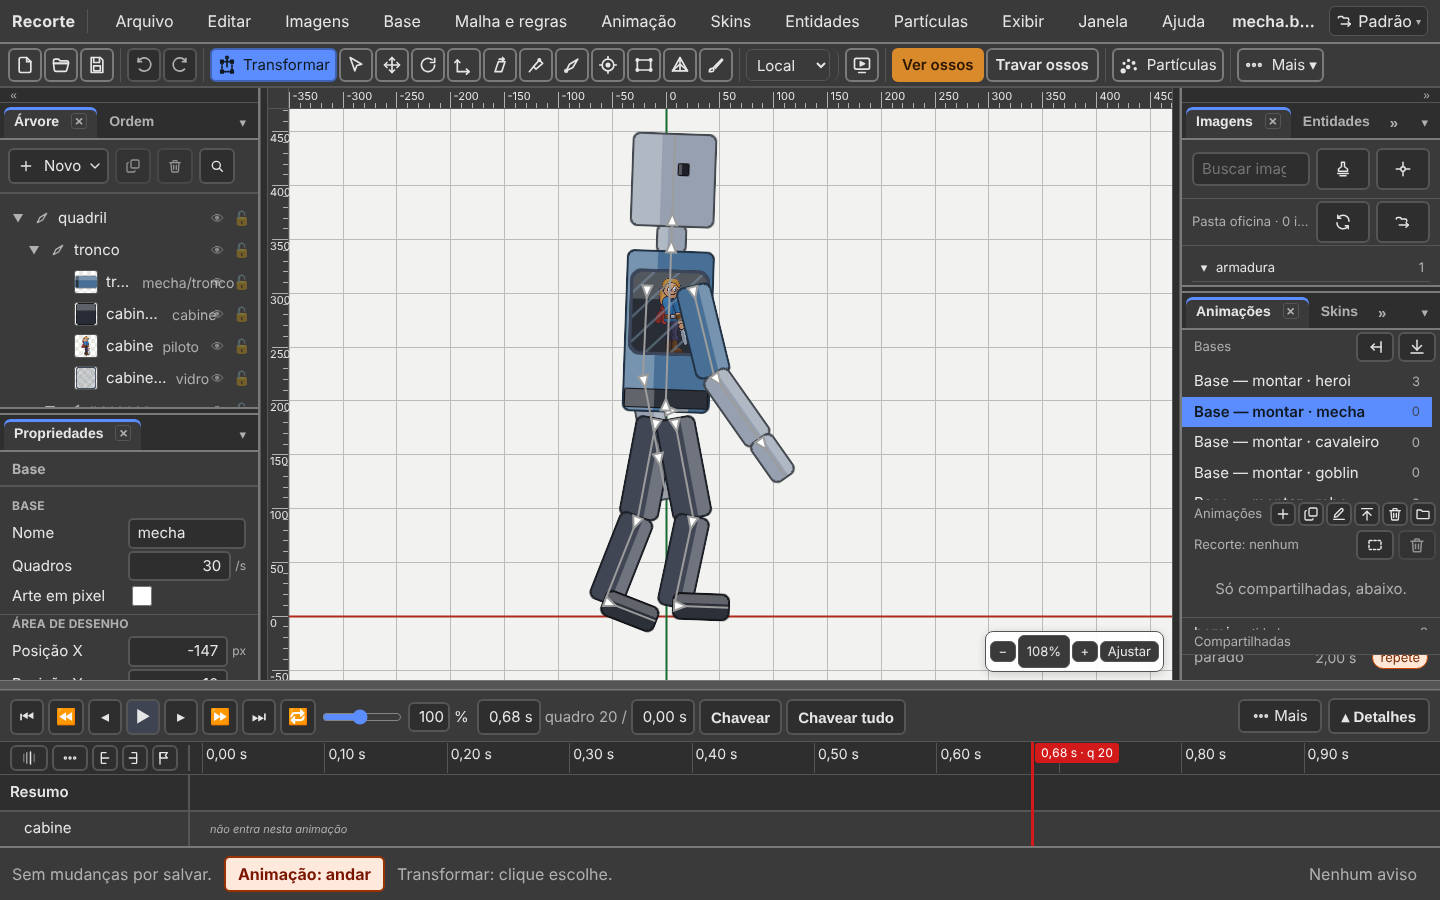
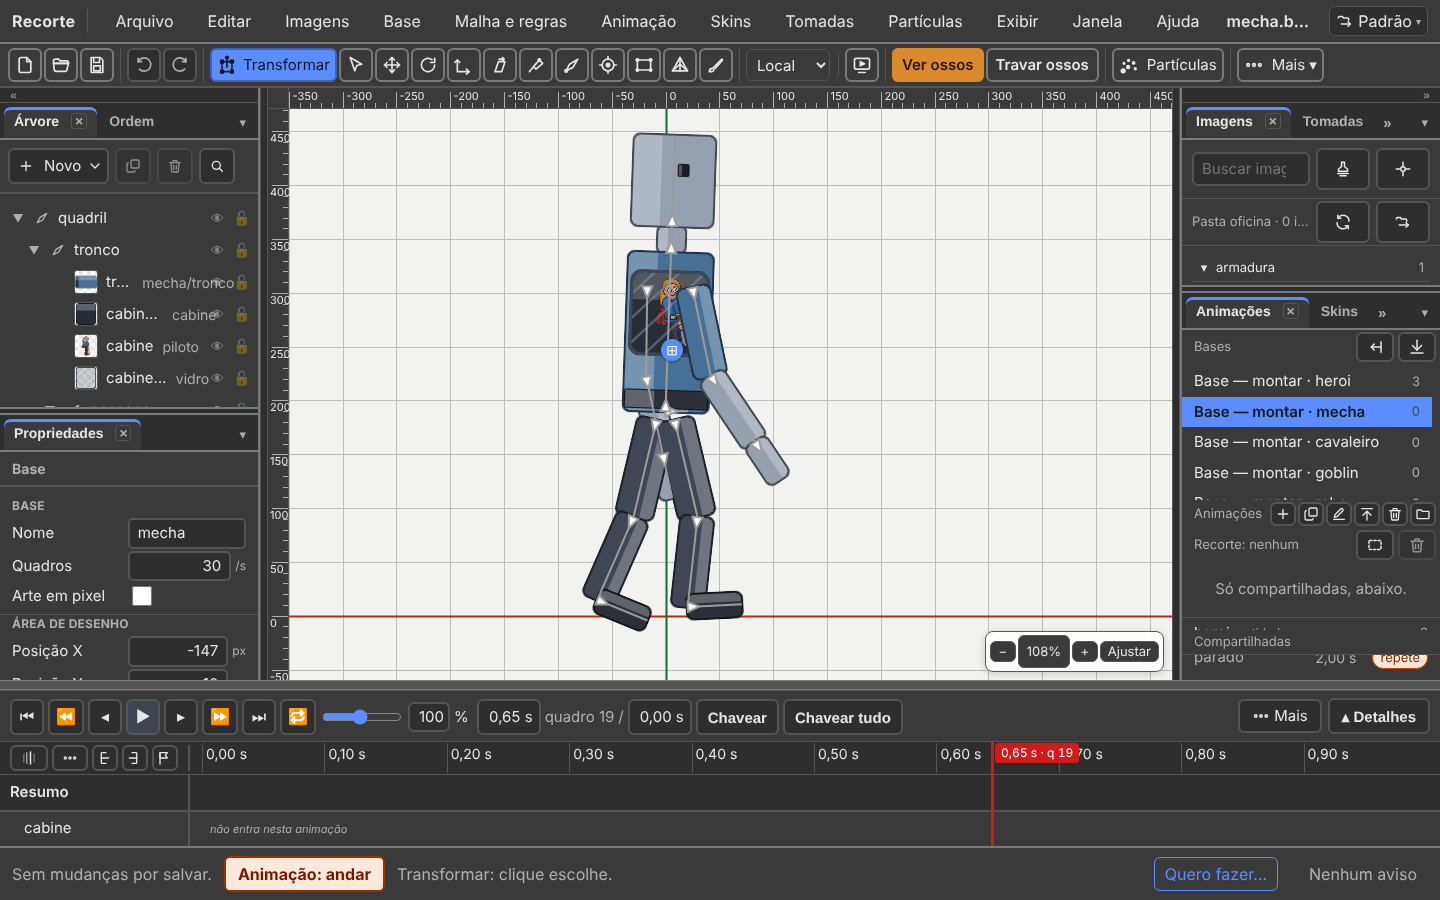
Oficina sobre a integração com as Tomadas: a prova confere a cabine na aba Tomadas; frase do rodapé com o essencial antes dos dois-pontos
Claude-Session: https://claude.ai/code/session_01ToK6BbHkRJR6siNrn32NnF

diff --git a/editor/src/panels/animations.ts b/editor/src/panels/animations.ts
@@ -857,7 +857,7 @@ class AnimationsPanel implements Panel {
         if (row.loop) botao.append(el('span', 'anim-repete', 'repete'));
         botao.addEventListener('click', () => {
           openAnimation(doc, nome);
-          doc.notice(`"${nome}" ${de}: compartilhada, só para ver aqui; para mudar, Abrir o original`);
+          doc.notice(`"${nome}" ${de} é compartilhada, só para ver aqui — para mudar, Abrir o original`);
         });
         item.append(botao);
         lista.append(item);

diff --git a/documentos/projeto do programa/noite/oficina.md b/documentos/projeto do programa/noite/oficina.md
@@ -35,7 +35,7 @@ Pedido do Diretor, noite de 04 para 05/11/2026. Feito pela sessão do reaproveit
 |:---|:---|
 | `node ferramentas/validador/validar.mjs exemplo/oficina/*` | 10 válidos, 0 com erro |
 | `render-png` | desenha as 5 bases, com o herói na cabine e a motosserra (foto `fotos-oficina/runtime-a-oficina-inteira.png`) |
-| `ferramentas/provas/oficina/prova.cjs` (só cliques) | 11 passos, nenhum travou |
+| `ferramentas/provas/oficina/prova.cjs` (só cliques) | 12 passos, nenhum travou — refeita sobre a integração com as Tomadas (e46cfc8): a cabine aparece na aba Tomadas e como tomada na cena |
 | programa montado (`vite build`) | a oficina vai junto e abre igual |
 
 ## Aviso para a parte do validador
